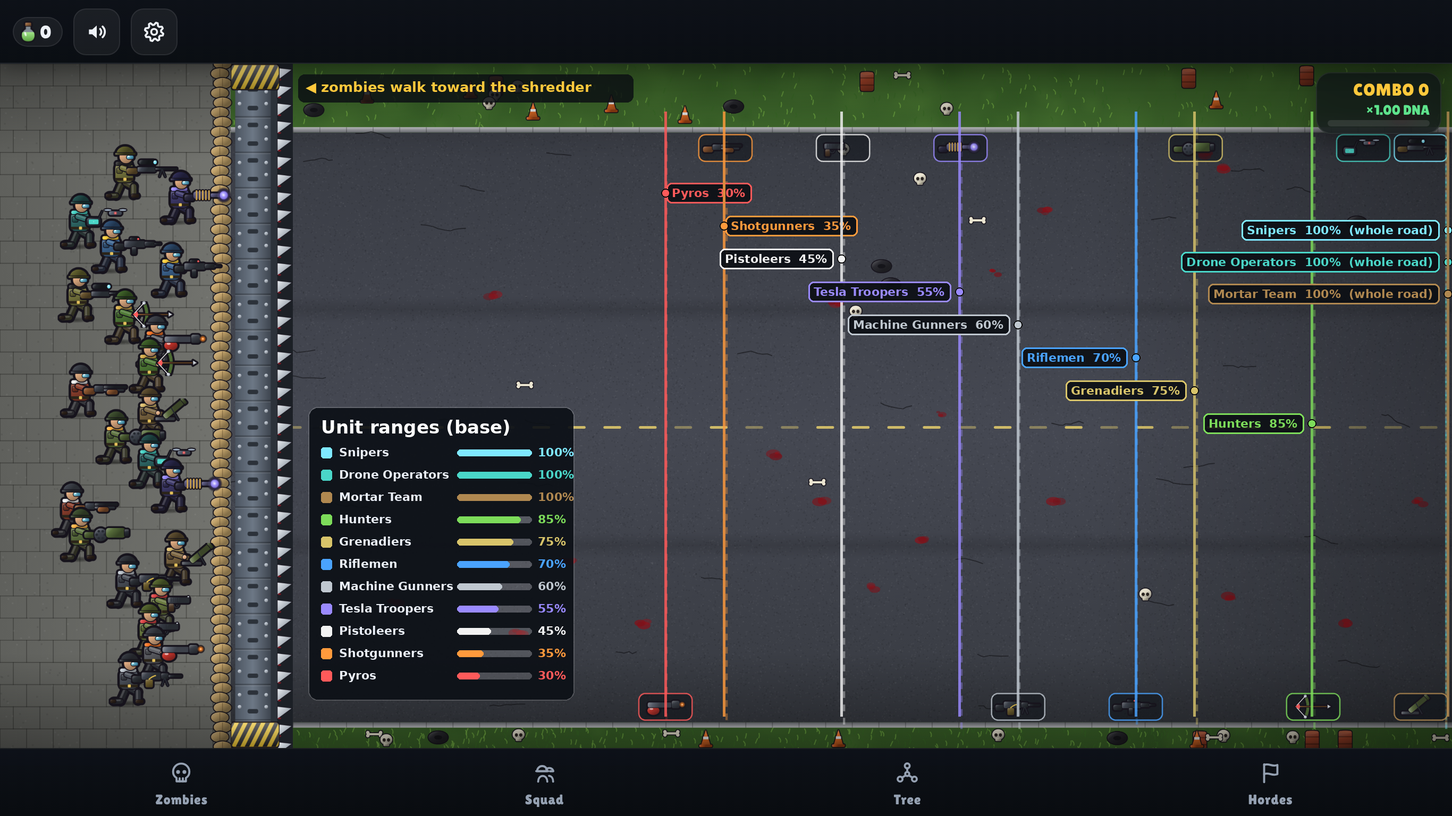
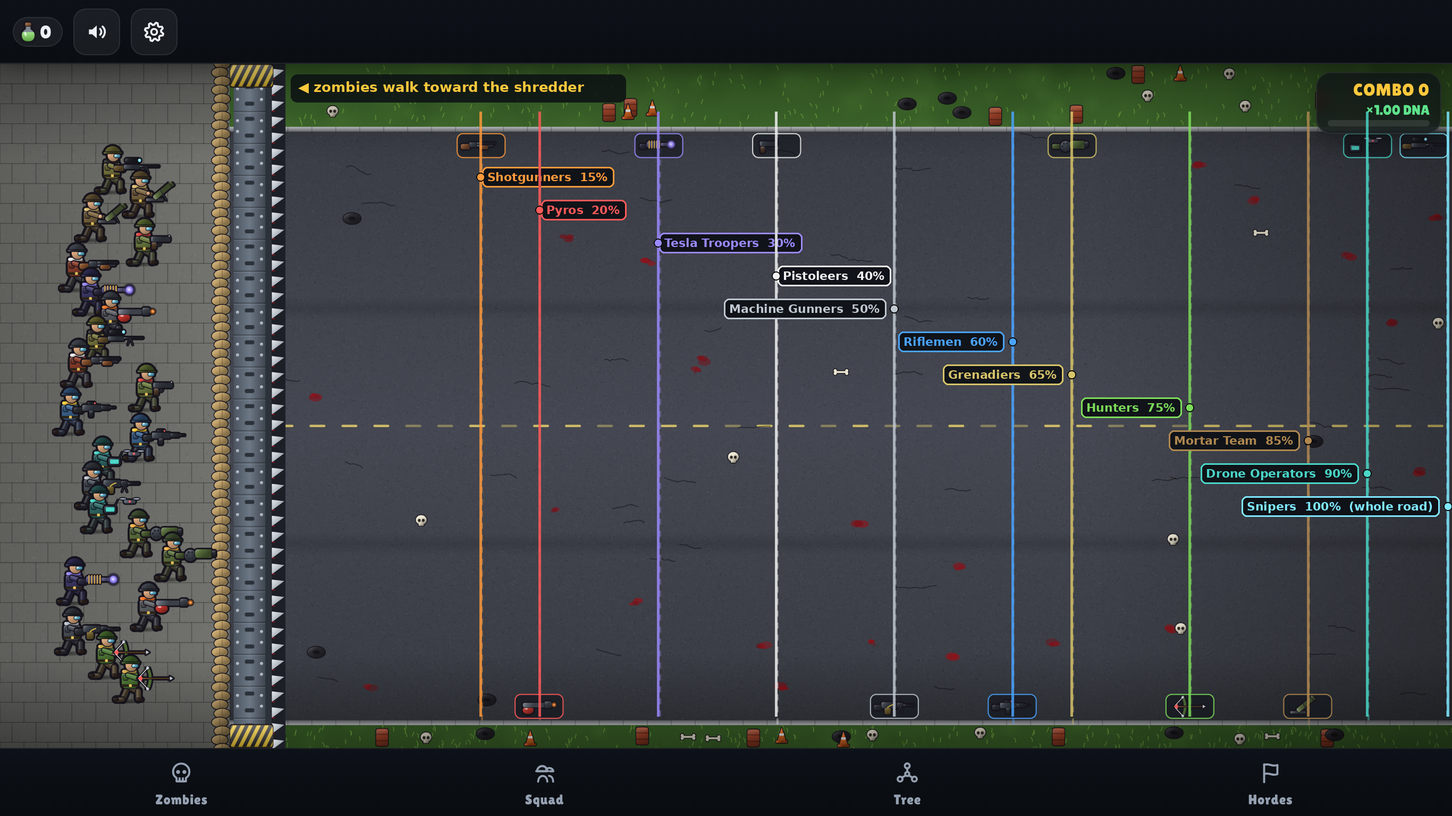
Upgradeable Shredder replaces the roll-back pop-up; wider range spread; longer road
- Shredder: endless upgrade (Green DNA, x1.1 damage/level) shown on the Zombies tab; real damage shared
  by zombies on the blades and counted in keep-up; minimum 2% HP/s so every zombie at the wall dies
  eventually; minimum-grind kills pay DNA only in proportion to real shredder damage (no farming)
- Overrun now shows a hint toast instead of the roll-back pop-up
- Ranges spread from Shotgunners 15% to Snipers 100%; only Snipers can reach the whole road (others cap at 95%);
  Shotgunner/Pyro/Tesla damage nudged up for their shorter reach
- Zombies walk 16 s instead of 10 s, view zoomed out a little, more zombies allowed on screen;
  horde timer 66 s so hordes stay as hard as before
- Range mockup regenerated

Claude-Session: https://claude.ai/code/session_019zgDzeHWtrW7b7CyJN5eBN

diff --git a/src/core/model.ts b/src/core/model.ts
@@ -143,28 +143,28 @@ export interface ClassDef {
   ability: AbilityDef;
 }
 export const CLASSES: ClassDef[] = [
-  { id: 'pistol',  name: 'Pistoleer',  plural: 'Pistoleers',  gun: 'Pistol',           dps: 10, range: 0.45, rate: 2.2, targets: 1, crit: 0.10, horde: 0, hire0: 25, primary: 'shambler', secondary: 'runner',
+  { id: 'pistol',  name: 'Pistoleer',  plural: 'Pistoleers',  gun: 'Pistol',           dps: 10, range: 0.40, rate: 2.2, targets: 1, crit: 0.10, horde: 0, hire0: 25, primary: 'shambler', secondary: 'runner',
     ability: { name: 'Double Tap', stages: ['+15% attack speed: quick follow-up shots', '+30% attack speed', '+50% attack speed'] } },
-  { id: 'bow',     name: 'Hunter',     plural: 'Hunters',     gun: 'Compound Bow',     dps: 12, range: 0.85, rate: 0.9, targets: 2, crit: 0.20, horde: 1, hire0: 600, primary: 'runner', secondary: 'spitter',
+  { id: 'bow',     name: 'Hunter',     plural: 'Hunters',     gun: 'Compound Bow',     dps: 12, range: 0.75, rate: 0.9, targets: 2, crit: 0.20, horde: 1, hire0: 600, primary: 'runner', secondary: 'spitter',
     ability: { name: 'Piercing Arrows', stages: ['Arrows pierce 1 more zombie', 'Arrows pierce 2 more zombies', 'Arrows pierce 3 more zombies'] } },
-  { id: 'shotgun', name: 'Shotgunner', plural: 'Shotgunners', gun: 'Shotgun',          dps: 15, range: 0.35, rate: 1.1, targets: 3, crit: 0.05, horde: 2, hire0: 4000, primary: 'shambler', secondary: 'brute',
+  { id: 'shotgun', name: 'Shotgunner', plural: 'Shotgunners', gun: 'Shotgun',          dps: 17, range: 0.15, rate: 1.1, targets: 3, crit: 0.05, horde: 2, hire0: 4000, primary: 'shambler', secondary: 'brute',
     ability: { name: 'Knockback', stages: ['Blasts shove zombies back (+10% time in range)', '+20% time in range', '+30% time in range'] } },
-  { id: 'rifle',   name: 'Rifleman',   plural: 'Riflemen',    gun: 'Assault Rifle',    dps: 20, range: 0.70, rate: 5.0, targets: 1, crit: 0.08, horde: 3, hire0: 1.2e4, primary: 'runner', secondary: 'brute',
+  { id: 'rifle',   name: 'Rifleman',   plural: 'Riflemen',    gun: 'Assault Rifle',    dps: 20, range: 0.60, rate: 5.0, targets: 1, crit: 0.08, horde: 3, hire0: 1.2e4, primary: 'runner', secondary: 'brute',
     ability: { name: 'Suppressive Fire', stages: ['Hits slow zombies by 15%', 'Hits slow zombies by 25%', 'Hits slow zombies by 35%'] } },
   { id: 'sniper',  name: 'Sniper',     plural: 'Snipers',     gun: 'Sniper Rifle',     dps: 28, range: 1.00, rate: 0.45, targets: 1, crit: 0.30, horde: 4, hire0: 8e4, primary: 'brute', secondary: 'bloater',
     ability: { name: 'Headshot', stages: ['10% chance to instantly kill (not bosses)', '20% chance to instantly kill', '30% chance to instantly kill'] } },
-  { id: 'flamer',  name: 'Pyro',       plural: 'Pyros',       gun: 'Flamethrower',     dps: 34, range: 0.30, rate: 8.0, targets: 4, crit: 0.0,  horde: 5, hire0: 5e5, primary: 'spitter', secondary: 'bloater',
+  { id: 'flamer',  name: 'Pyro',       plural: 'Pyros',       gun: 'Flamethrower',     dps: 38, range: 0.20, rate: 8.0, targets: 4, crit: 0.0,  horde: 5, hire0: 5e5, primary: 'spitter', secondary: 'bloater',
     ability: { name: 'Napalm', stages: ['Burning ground: +1 zombie hit, +10% damage', '+2 zombies hit, +20% damage', '+3 zombies hit, +30% damage'] } },
-  { id: 'grenade', name: 'Grenadier',  plural: 'Grenadiers',  gun: 'Grenade Launcher', dps: 42, range: 0.75, rate: 0.7, targets: 4, crit: 0.05, horde: 6, hire0: 5e6, primary: 'bloater', secondary: 'shambler',
+  { id: 'grenade', name: 'Grenadier',  plural: 'Grenadiers',  gun: 'Grenade Launcher', dps: 42, range: 0.65, rate: 0.7, targets: 4, crit: 0.05, horde: 6, hire0: 5e6, primary: 'bloater', secondary: 'shambler',
     ability: { name: 'Cluster Bombs', stages: ['Blasts hit 1 more zombie', 'Blasts hit 2 more zombies', 'Blasts hit 3 more zombies'] } },
   // Elite-horde recruits
-  { id: 'mg',      name: 'Machine Gunner', plural: 'Machine Gunners', gun: 'Machine Gun', dps: 55, range: 0.60, rate: 12, targets: 1, crit: 0.05, horde: 8, hire0: 3e7, primary: 'runner', secondary: 'brute',
+  { id: 'mg',      name: 'Machine Gunner', plural: 'Machine Gunners', gun: 'Machine Gun', dps: 55, range: 0.50, rate: 12, targets: 1, crit: 0.05, horde: 8, hire0: 3e7, primary: 'runner', secondary: 'brute',
     ability: { name: 'Overheat', stages: ['Longer bursts: +20% attack speed', '+40% attack speed', '+70% attack speed'] } },
-  { id: 'drone',   name: 'Drone Operator', plural: 'Drone Operators', gun: 'Attack Drones', dps: 68, range: 1.00, rate: 1.6, targets: 1, crit: 0.15, horde: 9, hire0: 2e8, primary: 'spitter', secondary: 'runner',
+  { id: 'drone',   name: 'Drone Operator', plural: 'Drone Operators', gun: 'Attack Drones', dps: 68, range: 0.90, rate: 1.6, targets: 1, crit: 0.15, horde: 9, hire0: 2e8, primary: 'spitter', secondary: 'runner',
     ability: { name: 'Swarm', stages: ['+1 drone: hits 1 more zombie', '+2 drones', '+3 drones'] } },
-  { id: 'mortar',  name: 'Mortar Gunner', plural: 'Mortar Team', gun: 'Mortar', dps: 85, range: 1.00, rate: 0.35, targets: 5, crit: 0.05, horde: 11, hire0: 1.5e9, primary: 'brute', secondary: 'bloater',
+  { id: 'mortar',  name: 'Mortar Gunner', plural: 'Mortar Team', gun: 'Mortar', dps: 85, range: 0.85, rate: 0.35, targets: 5, crit: 0.05, horde: 11, hire0: 1.5e9, primary: 'brute', secondary: 'bloater',
     ability: { name: 'Barrage', stages: ['Shells hit 1 more zombie, +10% damage', '+2 zombies, +20% damage', '+3 zombies, +30% damage'] } },
-  { id: 'tesla',   name: 'Tesla Trooper', plural: 'Tesla Troopers', gun: 'Arc Gun', dps: 105, range: 0.55, rate: 1.6, targets: 3, crit: 0.10, horde: 13, hire0: 1e10, primary: 'bloater', secondary: 'spitter',
+  { id: 'tesla',   name: 'Tesla Trooper', plural: 'Tesla Troopers', gun: 'Arc Gun', dps: 112, range: 0.30, rate: 1.6, targets: 3, crit: 0.10, horde: 13, hire0: 1e10, primary: 'bloater', secondary: 'spitter',
     ability: { name: 'Chain Lightning', stages: ['Arcs to 1 more zombie', 'Arcs to 2 more zombies', 'Arcs to 3 more zombies'] } },
 ];
 export const classById = (id: ClassId) => CLASSES.find((c) => c.id === id)!;
@@ -225,13 +225,17 @@ export const CONFIG = {
   dropRateExp: 0.75,         // stay minutes apart: ~1 per 8 min early, ~1 per 3 min with every type at full spawn rate
   treeCost0: 15,
   treeCostGrowth: 1.9,
-  walkSec: 10,
+  walkSec: 16,
   hordeZombies: 60,
-  hordeTimerSec: 60,
+  hordeTimerSec: 66,
   hordeSpawnPerSec: 3,
   /** Each horde ends with a boss: the toughest zombie type in the horde with this many times the HP, walking slowly.
    * If the boss reaches the shredder, or too many horde zombies break through, the horde is lost. */
   bossHpMult: 10, bossSpeed: 0.45, breachLimit: 10,
+  /** The shredder grinds zombies that reach it: endless upgrade paid in Green DNA. Its damage is shared by the
+   * zombies on its blades, and it always takes at least `floor` of a zombie's HP per second, so every zombie
+   * eventually dies there (you can't get permanently stuck). It doesn't stop horde zombies breaking through. */
+  shredder: { dps0: 6, perLevel: 1.1, cost0: 40, costGrowth: 1.16, floor: 0.02 },
   /** Odds at which a horde card says "should win" and War Drums starts it by itself. */
   hordeWinOdds: 1.1,
   /** Combo: every live kill adds 1; DNA earned is multiplied by up to ×1.5 at 300. It drops to 0 after 3 s
@@ -357,7 +361,8 @@ export function unitStats(e: SquadEntry, fx: Fx) {
   const c = classById(u.cls);
   const ab = abilityFx(u);
   const a = (stat: AttachStat) => (attach?.stat === stat ? attach.value : 0);
-  const range = Math.min(1, c.range * (1 + fx.range + 0.05 * nlv(u, 'range') + a('range')));
+  // only Snipers cover the whole road; everyone else tops out just short of it
+  const range = Math.min(u.cls === 'sniper' ? 1 : 0.95, c.range * (1 + fx.range + 0.05 * nlv(u, 'range') + a('range')));
   const spdMult = 1 + fx.spd + (fx.classSpd[u.cls] ?? 0) + 0.04 * nlv(u, 'spd') + a('spd') + ab.spd;
   const shotsPerSec = c.rate * spdMult;
   const crit = Math.min(0.9, c.crit + fx.crit + 0.02 * nlv(u, 'crit') + a('crit'));
@@ -391,17 +396,20 @@ export function lnSquadDps(squad: SquadEntry[], fx: Fx, s: ZombieId) {
  * Keep-up ratio: how much of the incoming stream the squad can kill. Each type brings rate·HP of work per second;
  * the squad clears DPS against it. 1 means exactly keeping up; below 1 zombies pile up at the shredder.
  */
-export function keepUp(squad: SquadEntry[], fx: Fx, st: Strains) {
+export const lnShredDps = (lv: number) => Math.log(C.shredder.dps0) + lv * Math.log(C.shredder.perLevel);
+export const lnShredCost = (lv: number) => Math.log(C.shredder.cost0) + lv * Math.log(C.shredder.costGrowth);
+export function keepUp(squad: SquadEntry[], fx: Fx, st: Strains, shred = 0) {
   let load = 0;
+  const lnShred = lnShredDps(shred);
   for (const s of activeStrains(st)) {
     const x = st[s];
-    load += spawnRate(s, x.spawn) * varietyAvg(x.tier) * Math.exp(Math.min(60, lnZombieHp(s, x.tier, x.spawn) - lnSquadDps(squad, fx, s)));
+    load += spawnRate(s, x.spawn) * varietyAvg(x.tier) * Math.exp(Math.min(60, lnZombieHp(s, x.tier, x.spawn) - logAdd(lnSquadDps(squad, fx, s), lnShred)));
   }
   return load > 0 ? 1 / load : Infinity;
 }
 /** DNA per second of each colour at the current settings. */
-export function lnDnaPerSec(squad: SquadEntry[], fx: Fx, st: Strains): Record<StrainId, number> {
-  const f = Math.min(1, keepUp(squad, fx, st));
+export function lnDnaPerSec(squad: SquadEntry[], fx: Fx, st: Strains, shred = 0): Record<StrainId, number> {
+  const f = Math.min(1, keepUp(squad, fx, st, shred));
   const out = Object.fromEntries(COLOURS.map((c) => [c, -Infinity])) as Record<ColourId, number>;
   for (const s of activeStrains(st)) {
     const x = st[s];

diff --git a/src/ui/ui.ts b/src/ui/ui.ts
@@ -5,7 +5,8 @@ import * as M from '../core/model.ts';
 import type { ClassId, Gear, Gun, StrainId, Unit, UnitNodeId } from '../core/model.ts';
 import { game, type AutoSell, type Loot, type OfflineReport } from '../core/state.ts';
 import { REGIONS, TREE, treeNode } from '../core/tree.ts';
-import { charmIcon, classIcon, crateIcon, gunIcon, modIcon, nodeIcon, vialIcon, zombieIcon } from '../game/art.ts';
+import { charmIcon, classIcon, crateIcon, gunIcon, iconUrl, modIcon, nodeIcon, vialIcon, zombieIcon } from '../game/art.ts';
+const shredIcon = () => iconUrl('shred-teeth', 3);
 import { fmtInt, fmtLn, fmtMult, fmtNum, gearDesc, gearName, gunName, RARITY_COLOR } from '../core/format.ts';
 import * as sfx from '../audio/sfx.ts';
 
@@ -135,14 +136,7 @@ function act(d: ActionData): boolean {
     case 'sound': { const on = !(sfx.soundPrefs().sfx || sfx.soundPrefs().music); sfx.setSfx(on); sfx.setMusic(on); refresh(); break; }
     case 'sound-sfx': sfx.setSfx(!sfx.soundPrefs().sfx); openSettings(); break;
     case 'sound-music': sfx.setMusic(!sfx.soundPrefs().music); openSettings(); break;
-    case 'rollback': {
-      closeModal();
-      const lost = game.rollBack();
-      if (lost.length) toast(`<b>Zombies rolled back</b><span>${lost.map((l) => `${esc(M.strainById(l.id).plural)}${l.tiers ? ` −${l.tiers} tier${l.tiers > 1 ? 's' : ''}` : ''}${l.spawn ? ` −${l.spawn} spawn` : ''}`).join(', ')}</span>`, '#ff9a3c');
-      rollBackSnooze = performance.now() + 30000;
-      break;
-    }
-    case 'rollback-no': closeModal(); rollBackSnooze = performance.now() + 120000; break;
+    case 'shredder': game.buyShredder(); break;
     case 'keep-pref': setShowKeep(!showKeep()); openSettings(); render(); break;
   }
   // sound feedback: purchases make a "buy" sound if DNA was actually spent
@@ -151,7 +145,7 @@ function act(d: ActionData): boolean {
   if (a === 'tier-up') sfx.tierUp();
   else if (a === 'allocate') { if (paid) sfx.allocate(); }
   else if (a === 'sell' || a === 'sell-matching') sfx.buy();
-  else if (['buy-node', 'hire', 'spawn', 'release'].includes(a)) { if (paid) sfx.buy(); else sfx.denied(); }
+  else if (['buy-node', 'hire', 'spawn', 'release', 'shredder'].includes(a)) { if (paid) sfx.buy(); else sfx.denied(); }
   else if (a.startsWith('equip')) sfx.equip();
   else if (a !== 'horde') sfx.click();
   // the tap is finished, so a re-render the action asked for can happen right now (no waiting)
@@ -271,8 +265,17 @@ function zombiesHtml() {
       ${hidden > 0 ? `<p class="sub small more">+${hidden} more ${head.dna.toLowerCase()} zombie type${hidden > 1 ? 's' : ''} to discover</p>` : ''}
     </div>`;
   }).join('');
+  const lv = game.shredLevel;
+  const shred = `<div class="srow shredder" style="--dna:#c0c8d2">
+      <img class="px face" src="${shredIcon()}" alt="">
+      <div class="s-info"><b>Shredder</b>
+        <span class="sub">Lv ${lv} · grinds ${fmtLn(game.lnShredDps())} damage/s</span>
+        <span class="sub small">Kills zombies that reach the wall; every zombie there dies eventually</span></div>
+      <div class="s-btns"><button class="btn sbtn" data-action="shredder" ${costAttr('shambler', game.shredCost())}><span>Upgrade</span>${cost('shambler', game.shredCost())}<i class="good">×${C.shredder.perLevel}</i></button></div>
+    </div>`;
   return `
   ${keepCardHtml(k)}
+  <div class="srows">${shred}</div>
   <p class="sub">Zombies come in five DNA colours, five types each. Raise a type's <b>DNA</b> or <b>Spawn</b> to earn more of its colour; it also makes those zombies tougher. Release new types with DNA of their colour.</p>
   ${families}
   <h3>Feral and Alpha zombies</h3>
@@ -280,7 +283,7 @@ function zombiesHtml() {
   <h3>Special zombies</h3>
   <p class="sub small">About ${Math.round(M.SPECIAL_CHANCE * 100)}% of zombies in the stream are special. They glow in their colour.</p>
   <div class="specials">${M.SPECIALS.map((sp) => `<div class="sp"><i style="--c:#${sp.tint.toString(16).padStart(6, '0')}"></i><b>${sp.name}</b><span class="sub small">${sp.desc}</span></div>`).join('')}</div>
-  <p class="sub small">DNA + raises that type's tier: ×${C.R} DNA and ×${C.R} HP. Spawn + brings 12% more of them, each level +3% HP. ${showKeep() ? 'The word under each price is how your squad would cope after buying.' : 'Watch the shredder: when it flashes red, zombies are getting through.'}</p>`;
+  <p class="sub small">DNA + raises that type's tier: ×${C.R} DNA and ×${C.R} HP. Spawn + brings 12% more of them, each level +3% HP. ${showKeep() ? 'The word under each price is how your squad would cope after buying.' : 'Watch the shredder: when it flashes red, zombies are getting through. Upgrade it to grind them faster.'}</p>`;
 }
 
 // ---------- Squad tab: overview of unit types, plus the item stash ----------
@@ -569,15 +572,12 @@ function bindTree() {
 
 function openModal(html: string) { const m = $('#modal'); m.innerHTML = `<div class="modal-card" role="dialog" aria-modal="true">${html}</div>`; m.hidden = false; }
 function closeModal() { $('#modal').hidden = true; }
-let rollBackSnooze = 0;
-/** Pop-up when the squad has been swamped for a while: roll zombies back (losing the DNA spent) or keep fighting. */
+let overrunHintAt = 0;
+/** The squad has been swamped for a while: point the player at the Shredder (no pop-up, nothing is taken away). */
 function offerRollBack() {
-  if (performance.now() < rollBackSnooze || !$('#modal').hidden) return;
-  sfx.hordeLost();
-  openModal(`<h3>Overrun!</h3>
-    <p>Zombies have been piling up at the shredder and your squad can't keep up.</p>
-    <p class="sub">Roll the zombies back to a level your squad can handle? The tiers and Spawn levels removed are lost, along with the DNA spent on them.</p>
-    <div class="row"><button class="btn ghost grow" data-action="rollback-no">Keep fighting</button><button class="btn danger grow" data-action="rollback">Roll back</button></div>`);
+  if (performance.now() < overrunHintAt) return;
+  overrunHintAt = performance.now() + 120000;
+  toast('<b>Overrun!</b><span>Zombies are piling up at the shredder. Upgrade the Shredder (Zombies tab) or your squad.</span>', '#ff6767');
 }
 function openSettings() {
   const snd = sfx.soundPrefs();

diff --git a/tools/sim.ts b/tools/sim.ts
@@ -22,11 +22,11 @@ export function simulate(profile, hours = HOURS, seed = SEED) {
   const rng = mulberry32(seed);
   const strains = Object.fromEntries(M.ZOMBIE_IDS.map((s) => [s, { unlocked: s === 'shambler', tier: 1, maxTier: 1, spawn: 0 }]));
   const units = Object.fromEntries(M.CLASSES.map((c) => [c.id, { cls: c.id, count: c.id === 'pistol' ? 1 : 0, nodes: {}, gun: c.id === 'pistol' ? 1 : null, attach: null, charm: null }]));
-  const s = { t: 0, dna: Object.fromEntries(M.STRAIN_IDS.map((x) => [x, -Infinity])), hordes: 0, nextUid: 2, guns: [{ uid: 1, cls: 'pistol', rarity: 'common', ilvl: 1 }], gear: [], alloc: [], drops: 0 };
+  const s = { t: 0, dna: Object.fromEntries(M.STRAIN_IDS.map((x) => [x, -Infinity])), hordes: 0, nextUid: 2, guns: [{ uid: 1, cls: 'pistol', rarity: 'common', ilvl: 1 }], gear: [], alloc: [], drops: 0, shred: 0 };
   const fx = () => treeFx(s.alloc);
   const owned = () => Object.values(units).filter((u) => u.count > 0);
   const squad = () => owned().map((u) => ({ u, gun: s.guns.find((g) => g.uid === u.gun), attach: s.gear.find((g) => g.uid === u.attach), charm: s.gear.find((g) => g.uid === u.charm) }));
-  const keep = (st = strains) => M.keepUp(squad(), fx(), st);
+  const keep = (st = strains) => M.keepUp(squad(), fx(), st, s.shred);
   const unlocked = (c) => M.classById(c).horde <= s.hordes;
   const pay = (col, ln) => { if (s.dna[col] + 1e-9 < ln) return false; s.dna[col] = M.logSub(s.dna[col], ln); return true; };
   const best = () => M.bestTier(strains);
@@ -60,6 +60,7 @@ export function simulate(profile, hours = HOURS, seed = SEED) {
         const sp = { ...strains, [x.id]: { ...st, spawn: st.spawn + 1 } };
         if (st.spawn < C.spawnMax && keep(sp) >= 1.15) opts.push({ col: x.family, ln: M.lnSpawnCost(x.id, st.spawn), go: () => { st.spawn++; } });
       }
+      opts.push({ col: 'shambler', ln: M.lnShredCost(s.shred), go: () => { s.shred++; } });
       for (const u of Object.values(units)) {
         const c = M.classById(u.cls);
         if (unlocked(u.cls) && u.count < M.unitCap(best())) opts.push({ col: c.primary, ln: M.lnHireCost(u.cls, u.count, f), go: () => { if (!u.count && !u.gun) drop(0, u.cls); u.count++; } });
@@ -87,13 +88,13 @@ export function simulate(profile, hours = HOURS, seed = SEED) {
   let ci = 0;
   while (s.t < hours * 3600) {
     if (ci < CHECKS.length && s.t >= CHECKS[ci] * 3600) {
-      out.push({ h: CHECKS[ci], tiers: M.STRAIN_IDS.map((x) => strains[x].unlocked ? strains[x].tier : '-').join('/') + ` (${M.activeStrains(strains).length} types)`, hordes: s.hordes, nodes: s.alloc.length, drops: s.drops,
+      out.push({ h: CHECKS[ci], tiers: M.STRAIN_IDS.map((x) => strains[x].unlocked ? strains[x].tier : '-').join('/') + ` (${M.activeStrains(strains).length} types)`, hordes: s.hordes, nodes: s.alloc.length, drops: s.drops, shred: s.shred,
         squad: owned().map((u) => `${u.cls[0]}${u.count}:${M.nlv(u, 'dmg')}${M.abilityStage(u) ? '*' + M.abilityStage(u) : ''}`).join(' '), keep: keep() });
       ci++;
     }
     const sq = squad(), f = fx();
-    const k = Math.min(1, M.keepUp(sq, f, strains));
-    const rate = M.lnDnaPerSec(sq, f, strains);
+    const k = Math.min(1, M.keepUp(sq, f, strains, s.shred));
+    const rate = M.lnDnaPerSec(sq, f, strains, s.shred);
     let kills = 0;
     for (const c of M.COLOURS) s.dna[c] = M.logAdd(s.dna[c], rate[c] + Math.log(DT));
     for (const x of M.activeStrains(strains)) kills += M.spawnRate(x, strains[x].spawn) * k * DT;
@@ -112,6 +113,6 @@ export function simulate(profile, hours = HOURS, seed = SEED) {
 if (import.meta.url === `file://${process.argv[1]}`) {
   for (const p of Object.values(PROFILES)) {
     console.log(`\n=== ${p.label} ===`);
-    for (const r of simulate(p)) console.log(`${String(r.h).padStart(6)}h  tiers ${r.tiers.padEnd(34)} hordes ${String(r.hordes).padStart(2)}  passives ${String(r.nodes).padStart(2)}  drops ${String(r.drops).padStart(3)}  keep ${r.keep.toFixed(2)}  ${r.squad}`);
+    for (const r of simulate(p)) console.log(`${String(r.h).padStart(6)}h  tiers ${r.tiers.padEnd(34)} hordes ${String(r.hordes).padStart(2)}  passives ${String(r.nodes).padStart(2)}  drops ${String(r.drops).padStart(3)}  shred ${String(r.shred).padStart(3)}  keep ${r.keep.toFixed(2)}  ${r.squad}`);
   }
 }

diff --git a/src/game/BattleScene.ts b/src/game/BattleScene.ts
@@ -15,8 +15,8 @@ import { buildArt, drawGround, GUN_H, GUN_W, HERO_GRIP, HERO_H, HERO_W, RARITY_T
 
 const C = M.CONFIG;
 const FONT = '"Lilita One", system-ui, sans-serif';
-const ART_SHORT_SIDE = 360;  // art pixels across the field's short side (bigger = more zoomed out)
-const MAX_AMBIENT = 70;      // cap on stream zombies alive at once
+const ART_SHORT_SIDE = 400;  // art pixels across the field's short side (bigger = more zoomed out)
+const MAX_AMBIENT = 110;     // cap on stream zombies alive at once
 const MAX_TEXTS = 24;
 const INTRO_SEC = 1.4;
 const STUCK_SEC = 20;          // seconds of a swamped shredder before offering a roll-back
@@ -24,6 +24,7 @@ const STUCK_SEC = 20;          // seconds of a swamped shredder before offering 
 type Phase = 'stream' | 'intro' | 'horde' | 'end';
 interface Zombie {
   strain: ZombieId; variety: VarietyId; special: SpecialId | null; announced: boolean; tier: number; lnHp: number; hp: number; p: number; l: number; speed: number; horde: boolean; boss: boolean; atWall: boolean; slow: number; burn: number;
+  grindEff?: number;  // DNA share when the shredder kills it (only its real damage counts, not the minimum grind)
   flash: number; phase: number; alive: boolean; sprite?: Phaser.GameObjects.Sprite;
 }
 interface Shooter { body: Phaser.GameObjects.Sprite; gun: Phaser.GameObjects.Image; flash: Phaser.GameObjects.Image; cls: ClassId; cd: number; recoil: number; flashT: number; aim: number }
@@ -49,6 +50,7 @@ export class BattleScene extends Phaser.Scene {
   private teeth!: Phaser.GameObjects.TileSprite;
   private overrun = 0;
   private stuckT = 0;
+  private atWallCount = 0;
   private capTop!: Phaser.GameObjects.Image;
   private capBot!: Phaser.GameObjects.Image;
   private fx!: Phaser.GameObjects.Graphics;
@@ -178,7 +180,8 @@ export class BattleScene extends Phaser.Scene {
     this.phaseT += dt;
     this.teeth.tilePositionY -= dt * 30 * RES;
     // overrun cue: the shredder glows red while zombies are grinding at it
-    const atWall = this.zombies.filter((z) => z.alive && z.p >= 1).length;
+    const atWall = this.zombies.filter((z) => z.alive && z.p >= 1 && !z.horde).length;
+    this.atWallCount = atWall;
     // stuck detection: the shredder swamped for a long time outside a horde → ask the player to roll back
     if (this.phase === 'stream' && atWall >= 3) this.stuckT += dt; else this.stuckT = Math.max(0, this.stuckT - dt * 3);
     if (this.stuckT >= STUCK_SEC) { this.stuckT = 0; game.emit('stuck'); }
@@ -275,9 +278,12 @@ export class BattleScene extends Phaser.Scene {
       }
       else {
         if (!z.atWall) { z.atWall = true; game.comboBreak(); }
-        // in the blades: the shredder grinds it slowly while it claws at the machine
+        // in the blades: the shredder's damage is shared by every zombie on it, and always takes at least
+        // a small share of their HP, so even an overwhelming pile-up dies eventually
         z.phase += dt * 3;
-        z.hp -= 0.08 * dt;
+        const share = Math.exp(Math.min(30, game.lnShredDps() - z.lnHp)) / Math.max(1, this.atWallCount);
+        z.hp -= Math.max(C.shredder.floor, share) * dt;
+        z.grindEff = Math.min(1, share / C.shredder.floor);
         sfx.grind();
         if (Math.random() < dt * 6) { const [x, y] = this.toScreen(1, z.l); this.burst(x - 6 * this.px, y - 10 * this.px, 0x8a1c1c, 2); }
         if (z.hp <= 0) this.kill(z);
@@ -435,7 +441,7 @@ export class BattleScene extends Phaser.Scene {
       }
     }
     const vm = M.VARIETIES[z.variety].dna;
-    const loot = game.zombieKilled(z.strain, z.tier, { mult: (sp?.dna ?? 1) * vm, lootMult: (sp?.loot ?? 1) * (z.variety ? 1.5 * z.variety : 1) });
+    const loot = game.zombieKilled(z.strain, z.tier, { mult: (sp?.dna ?? 1) * vm * (z.grindEff ?? 1), lootMult: (sp?.loot ?? 1) * (z.variety ? 1.5 * z.variety : 1) });
     if (loot) this.dropCrate(loot.type === 'gun' ? loot.gun.rarity : loot.gear.rarity, x, y);
   }
 

diff --git a/src/core/state.ts b/src/core/state.ts
@@ -21,6 +21,8 @@ export interface SaveData {
   autoHordeOn: boolean;
   /** Drops at or below this rarity are sold on pickup (never an upgrade, never a horde reward). null = off. */
   autoSell: AutoSell;
+  /** Shredder upgrade level. */
+  shredder: number;
   nextUid: number;
   kills: number;
   newItems: number[];
@@ -44,7 +46,7 @@ function freshSave(): SaveData {
   return {
     version: 6, dna: emptyDna(), strains: emptyStrains(), units,
     guns: [{ uid: 2, cls: 'pistol', rarity: 'common', ilvl: 1 }], gear: [],
-    alloc: [], hordes: 0, autoHordeOn: true, autoSell: null, nextUid: 3, kills: 0, newItems: [], lastSeen: Date.now(),
+    alloc: [], hordes: 0, autoHordeOn: true, autoSell: null, shredder: 0, nextUid: 3, kills: 0, newItems: [], lastSeen: Date.now(),
   };
 }
 
@@ -138,13 +140,18 @@ export class Game {
   }
 
   // ---------- zombie dials ----------
-  keepUp(st: Strains = this.s.strains) { return M.keepUp(this.squad(), this.fx, st); }
+  keepUp(st: Strains = this.s.strains) { return M.keepUp(this.squad(), this.fx, st, this.s.shredder ?? 0); }
   /** Keep-up ratio if one zombie type's tier or spawn level changed by +1. */
   keepUpIf(s: ZombieId, what: 'tier' | 'spawn') {
     const x = this.s.strains[s];
     return this.keepUp({ ...this.s.strains, [s]: { ...x, [what]: x[what] + 1 } });
   }
-  lnDnaPerSec() { return M.lnDnaPerSec(this.squad(), this.fx, this.s.strains); }
+  lnDnaPerSec() { return M.lnDnaPerSec(this.squad(), this.fx, this.s.strains, this.s.shredder ?? 0); }
+  // ---------- shredder ----------
+  get shredLevel() { return this.s.shredder ?? 0; }
+  shredCost() { return M.lnShredCost(this.shredLevel); }
+  lnShredDps() { return M.lnShredDps(this.shredLevel); }
+  buyShredder() { if (this.pay('shambler', this.shredCost())) { this.s.shredder = this.shredLevel + 1; this.emit('change'); } }
   get totalSpawnRate() { return M.totalSpawnRate(this.s.strains); }
   tierCost(s: ZombieId) { return M.lnTierCost(s, this.s.strains[s].maxTier); }
   raiseTier(s: ZombieId) {

diff --git a/docs/game-spec.md b/docs/game-spec.md
@@ -42,9 +42,11 @@ Every released type has **its own two dials**, paid in its own colour:
 | **Spawn Rate** | 30 levels | +12% of that type per level; each level also +3% HP for that type |
 
 The **keep-up meter** is an option in Settings, **off by default**: players read the battlefield instead, and the
-shredder glows and pulses red while zombies are reaching it. If the shredder stays swamped for 20 seconds (outside a
-horde), an **Overrun!** pop-up offers to roll the zombies back to a level the squad handles: the tiers and Spawn levels
-removed are lost along with the DNA spent on them. "Keep fighting" dismisses it for 2 minutes. With the option on, a keep-up meter compares the squad's kill capacity with all arrivals combined, and every dial button previews
+shredder glows and pulses red while zombies are reaching it. The **Shredder** is upgradeable (endless,
+Green DNA, ×1.1 damage per level): its damage is shared by the zombies grinding on it and counts towards keeping up.
+It always takes at least 2% of a zombie's HP per second, so every zombie at the wall dies eventually and you can't get
+permanently stuck (zombies killed only by that minimum pay DNA in proportion to the Shredder's real damage, so it can't
+be farmed). When the shredder stays swamped for 20 s, a message suggests upgrading it or the squad. With the option on, a keep-up meter compares the squad's kill capacity with all arrivals combined, and every dial button previews
 whether the squad would still keep up. If the squad falls behind, zombies pile up at the shredder, which grinds them
 slowly. You never lose.
 
@@ -98,7 +100,7 @@ Command Post; each has small nodes, two notables and a keystone, and neighbourin
 Allocate a node next to one you own. Each region is paid in its own DNA colour (Basic Training Green, Marksman and Suppression Yellow, Breacher and Deadeye Red, Inferno Teal, Demolition and Command Purple); each allocation costs ×1.9 more than the last. Tap a node to see what it does.
 
 ## 5. Hordes (Hordes tab)
-Optional fights: **60 zombies plus a boss in 60 seconds** at a fixed tier. The stream pauses while you fight. The boss
+Optional fights: **60 zombies plus a boss in 66 seconds** at a fixed tier. The stream pauses while you fight. The boss
 is a giant version of the toughest zombie type in the horde (×10 HP, slow) and joins two-thirds of the way in.
 **You lose** if time runs out, the boss reaches the shredder, or 10 horde zombies break through (a status line on the
 field shows time, zombies left, the boss and breaches). Each card shows your odds before you start. Hordes 1–7 are at
@@ -142,3 +144,10 @@ Saves upgrade automatically (v4 → v5 → v6) under the same storage key, with 
 Upgrading to v0.8: all old DNA becomes Green DNA, the old tier and spawn level go to Shamblers, zombie types that were
 already in the stream are released (at tier 1, free to raise back to the old best), unit training levels become
 Damage levels in each unit's tree, and tiers are lowered if needed so the squad starts out keeping up.
+
+## 10. Ranges and the road
+Range is how far up the road a unit shoots, measured from the shredder. Base ranges: Shotgunners 15%, Pyros 20%,
+Tesla Troopers 30%, Pistoleers 40%, Machine Gunners 50%, Riflemen 60%, Grenadiers 65%, Hunters 75%, Mortar Team 85%,
+Drone Operators 90%, Snipers 100%. Range upgrades add up to +50%, but only Snipers can cover the whole road (others cap
+at 95%). Zombies take about 16 s to walk the road, and the view is zoomed out (~400 art units across the short side).
+See `unit-ranges.png`.
